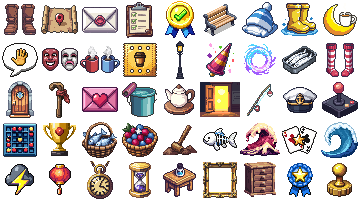
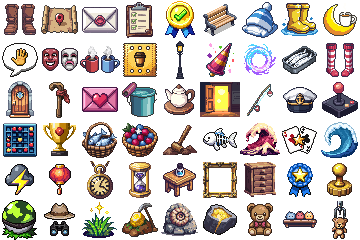
Estampas: ícones novos na folha e fakes que guardam o livro
Nove ícones PixelLab numa sexta linha da folha (paleta da folha, contorno
preto). ps.realm('fake'), ps.dig() e ps.safari() não refazem mais o livro
falso quando os fakes já estão ligados, então a Estampa que um jogo falso
ganhou continua lá ao abrir o livro.

diff --git a/src/realm/api.ts b/src/realm/api.ts
@@ -106,8 +106,9 @@ const fakeBookStart = (now: number): RealmBook => {
   return { stamps, counts, milestones: milestonesReached(stamps.length).map((m) => m.at), errands, day }
 }
 
-/** Dev: every call answers made-up data (on), or the API again (off). */
+/** Dev: every call answers made-up data (on), or the API again (off). Already on, it keeps what was faked so far (the book a faked game just stamped). */
 export const fakeRealm = (on: boolean, handle = 'ash') => {
+  if (on && fake) return
   const bases = [fakeBase('misty', DEMO_BASES.misty, 'squirtle', 87, 24), fakeBase('brock', DEMO_BASES.brock, 'geodude', 41, 9)]
   fake = on ? { me: { handle, furniture: fakeFurniture(), base: fakeBase(handle) }, bases: new Map(bases.map((b) => [b.handle, b])), games: { day: {}, stats: {}, board: {} }, showWhere: true, book: fakeBookStart(Date.now()) } : null
 }
